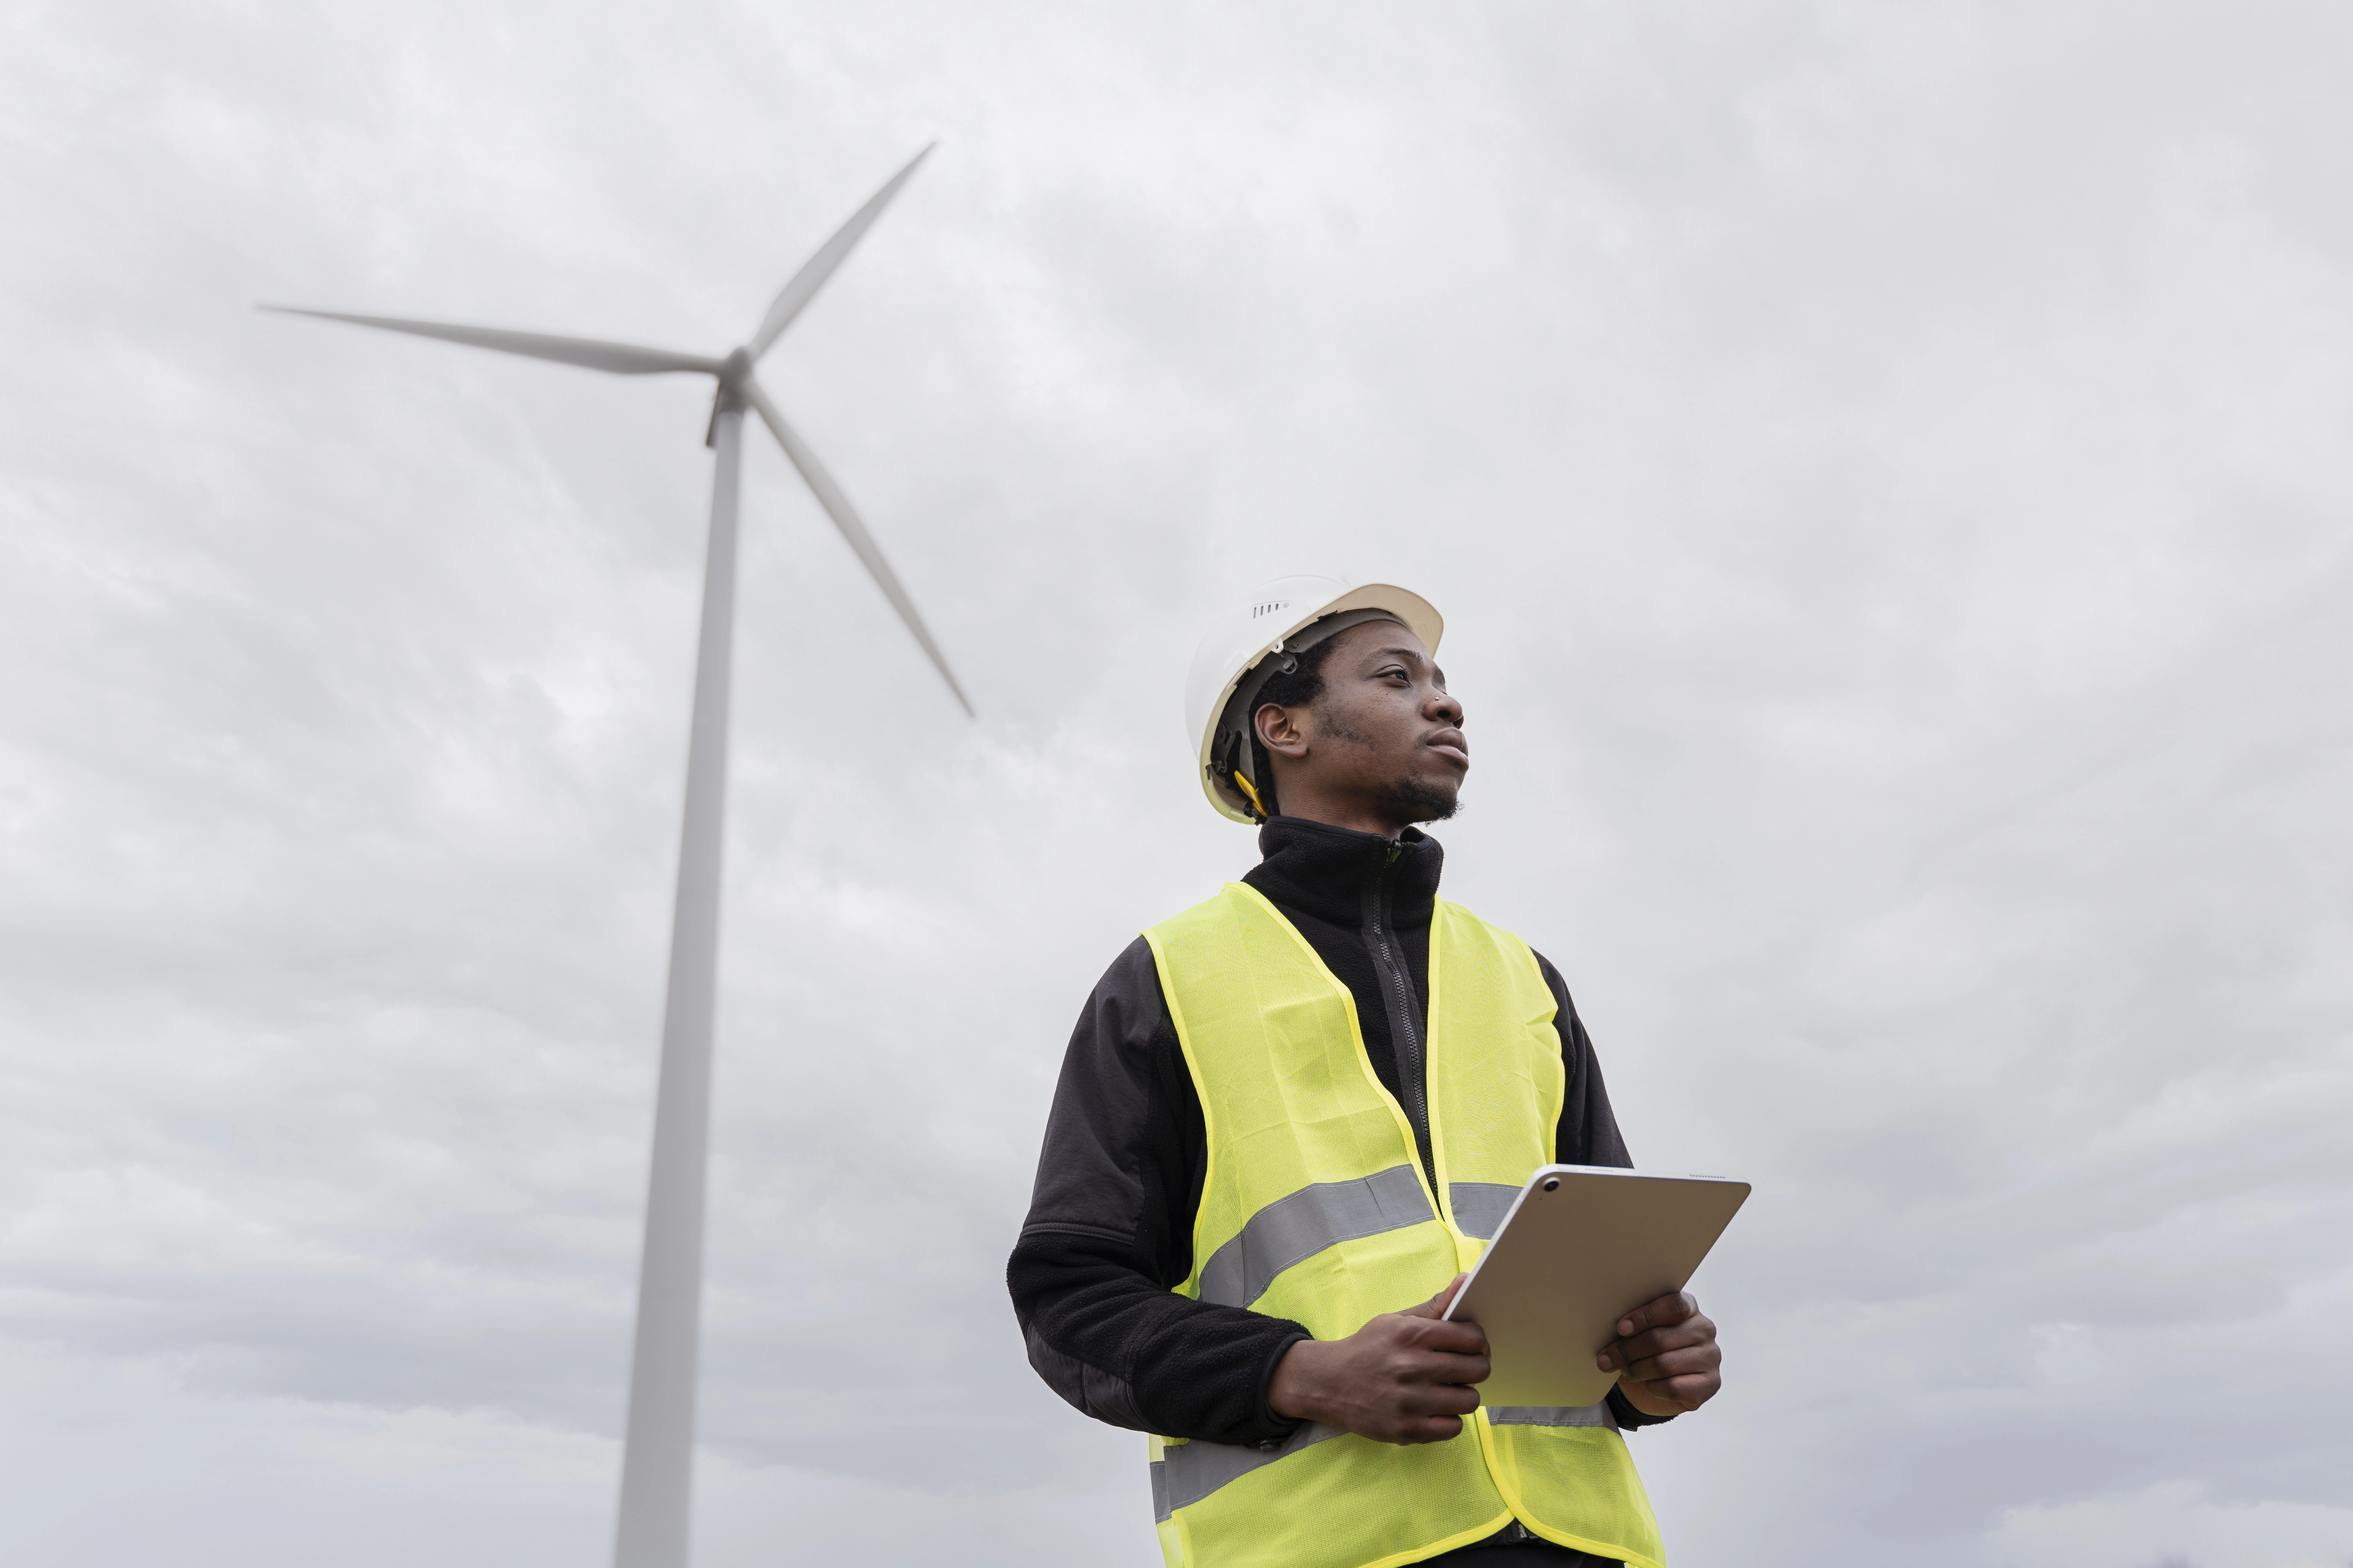
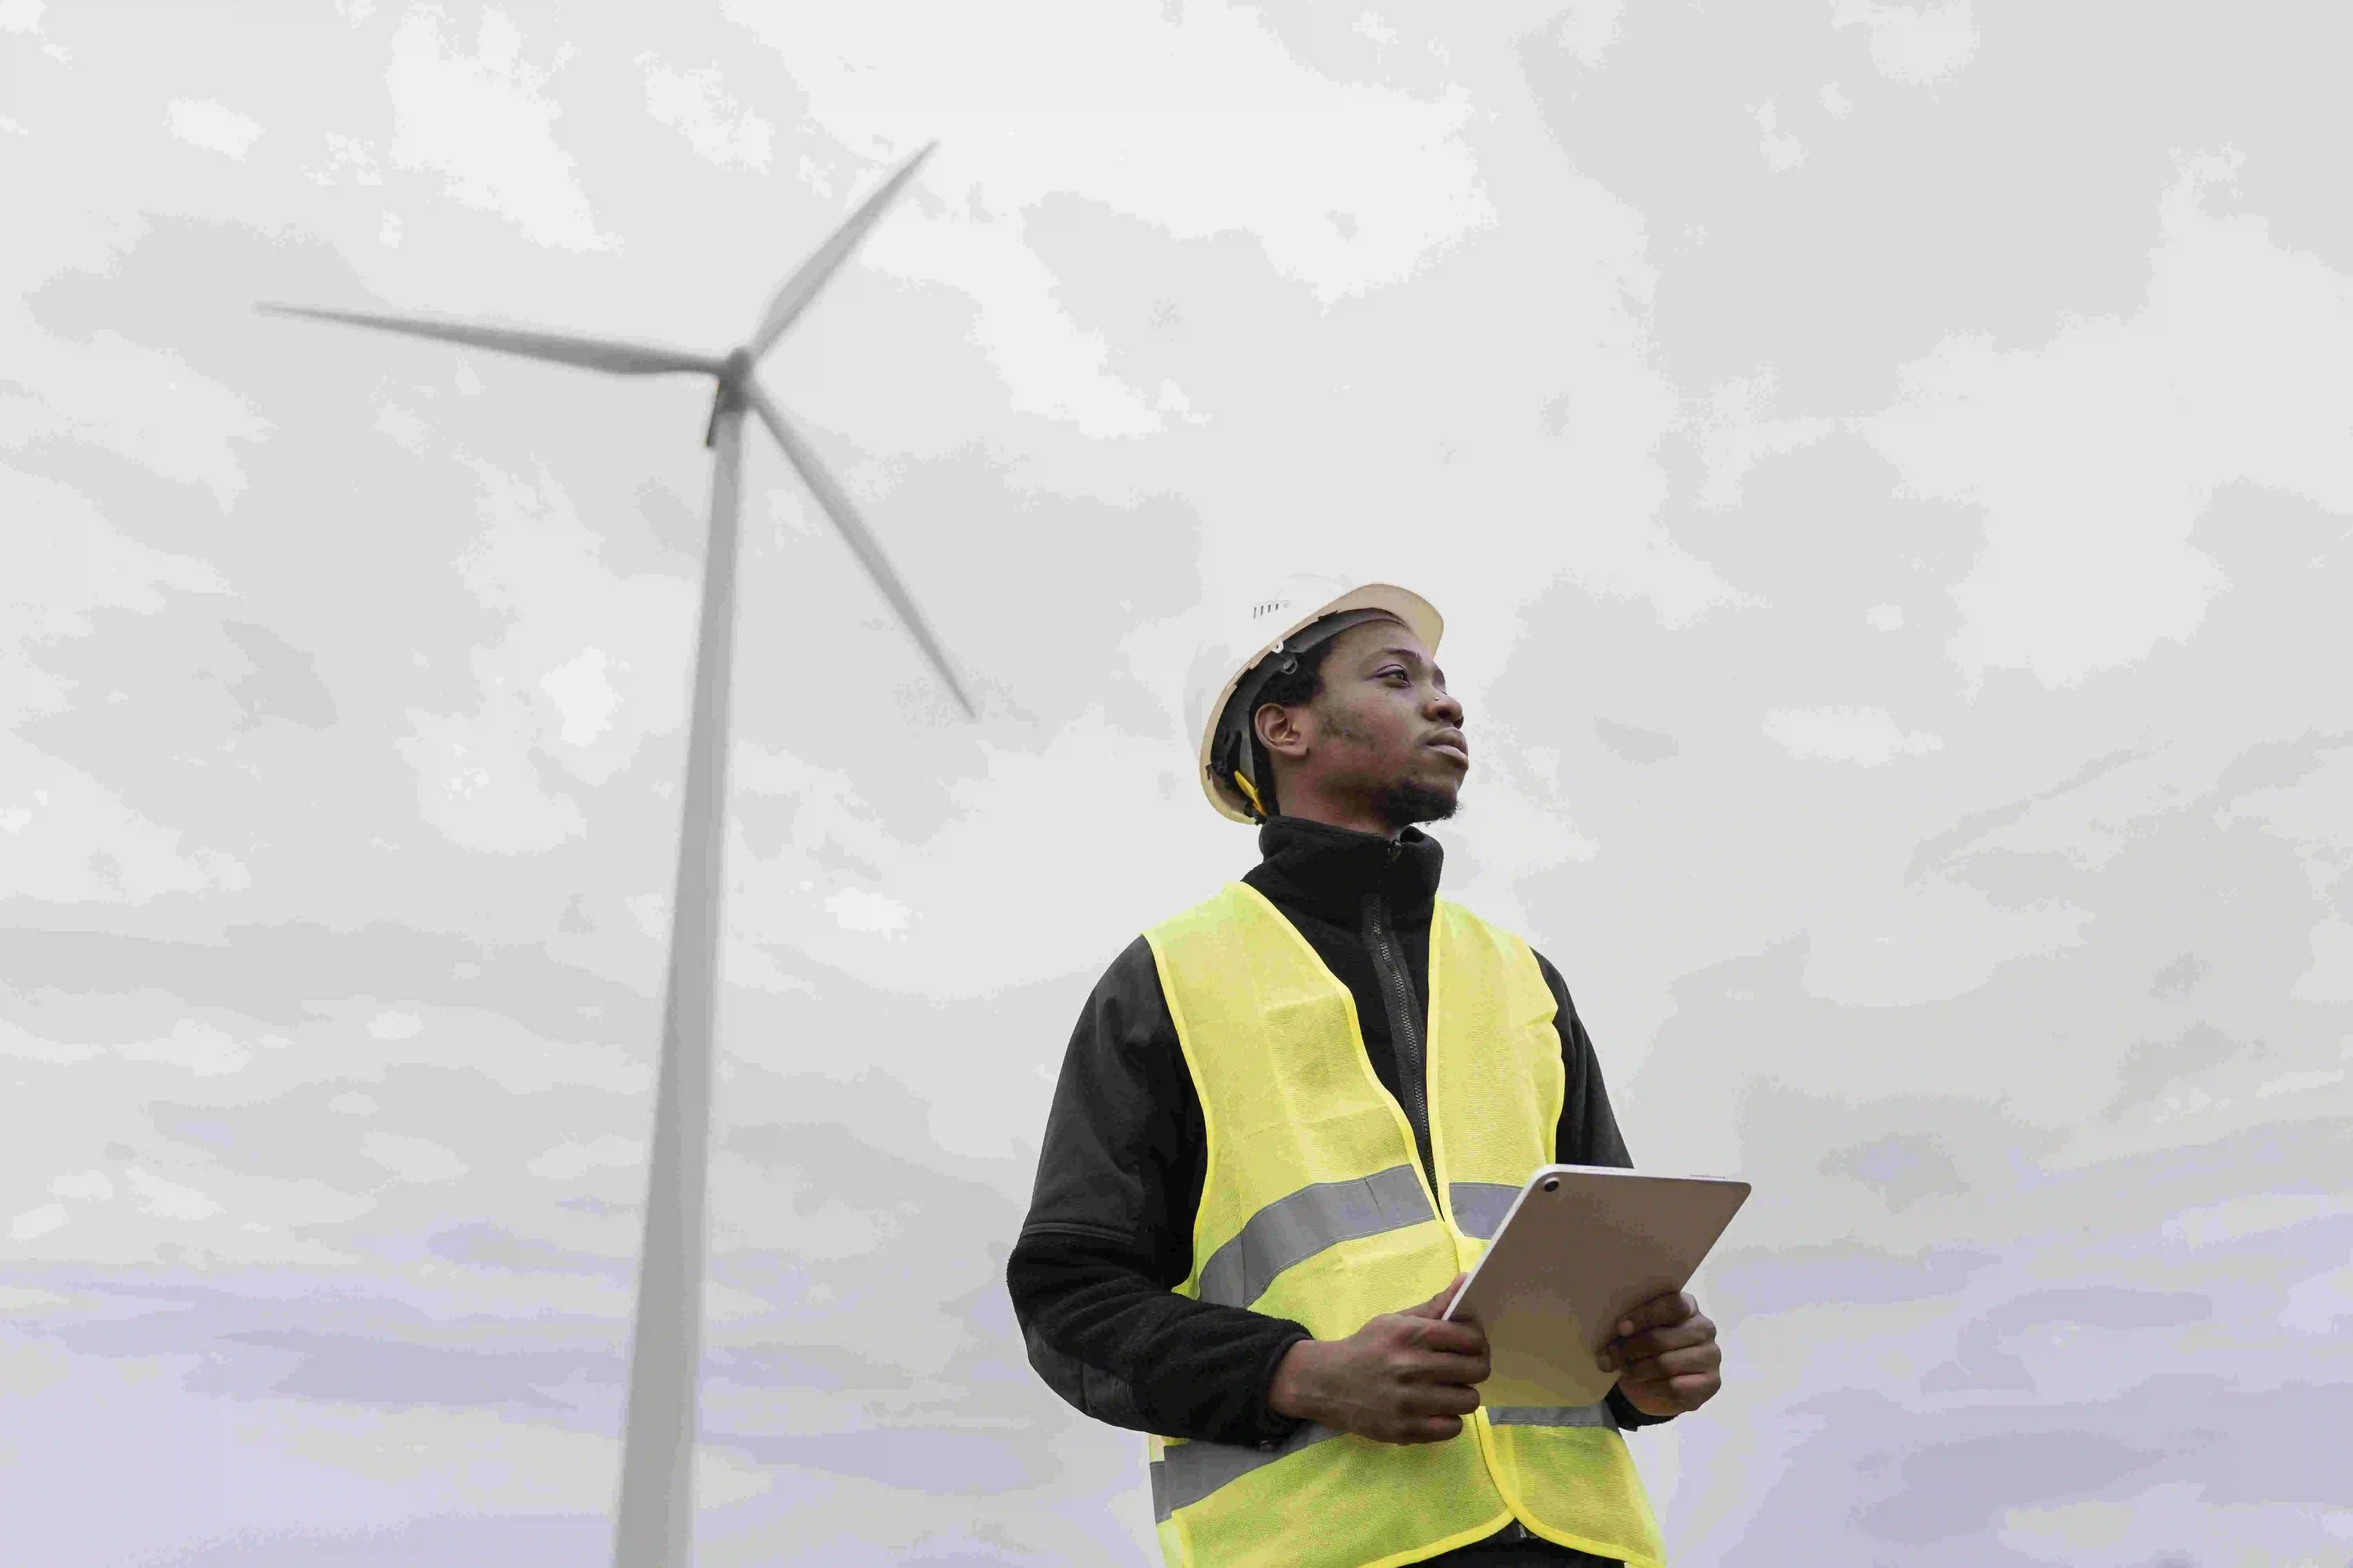
optimisation des images

Changed region(s): [[0.4987, 0.625, 0.6545, 0.8125], [0.4987, 0.9062, 0.6857, 1.0], [0.5298, 0.7812, 0.6233, 0.8438]]

diff --git a/2bn_international/src/composants/pages/about.jsx b/2bn_international/src/composants/pages/about.jsx
@@ -2,8 +2,8 @@ import { Box, Button } from "@mui/material";
 import { useState } from "react";
 import '../../index.css';
 import Banner from './../../../public/assets/img/about/about_banner.webp';
-import img06 from './../../../public/assets/img/about/img06.jpg';
-import img07 from './../../../public/assets/img/about/img07.jpg';
+import img06 from './../../../public/assets/img/about/img06.webp';
+import img07 from './../../../public/assets/img/about/img07.webp';
 import Cercle from './../../../public/assets/img/about/cercle.png';
 import img_value01 from './../../../public/assets/img/about/justice.png';
 import img_value02 from './../../../public/assets/img/about/croissance.png';

diff --git a/2bn_international/src/composants/pages/petrole.jsx b/2bn_international/src/composants/pages/petrole.jsx
@@ -1,7 +1,7 @@
 import {useState} from "react";
 import { Box } from "@mui/material";
-import Banner from '/assets/img/petrolier/petrolier_banner.jpg';
-import team from '/assets/img/petrolier/2bn_team-_1_.jpg';
+import Banner from '/assets/img/petrolier/petrolier_banner.webp';
+import team from '/assets/img/petrolier/2bn_team.webp';
 import flag01 from '/assets/img/petrolier/country/chad.webp';
 import flag02 from '/assets/img/petrolier/country/mali.webp';
 import flag03 from '/assets/img/petrolier/country/niger.webp';
